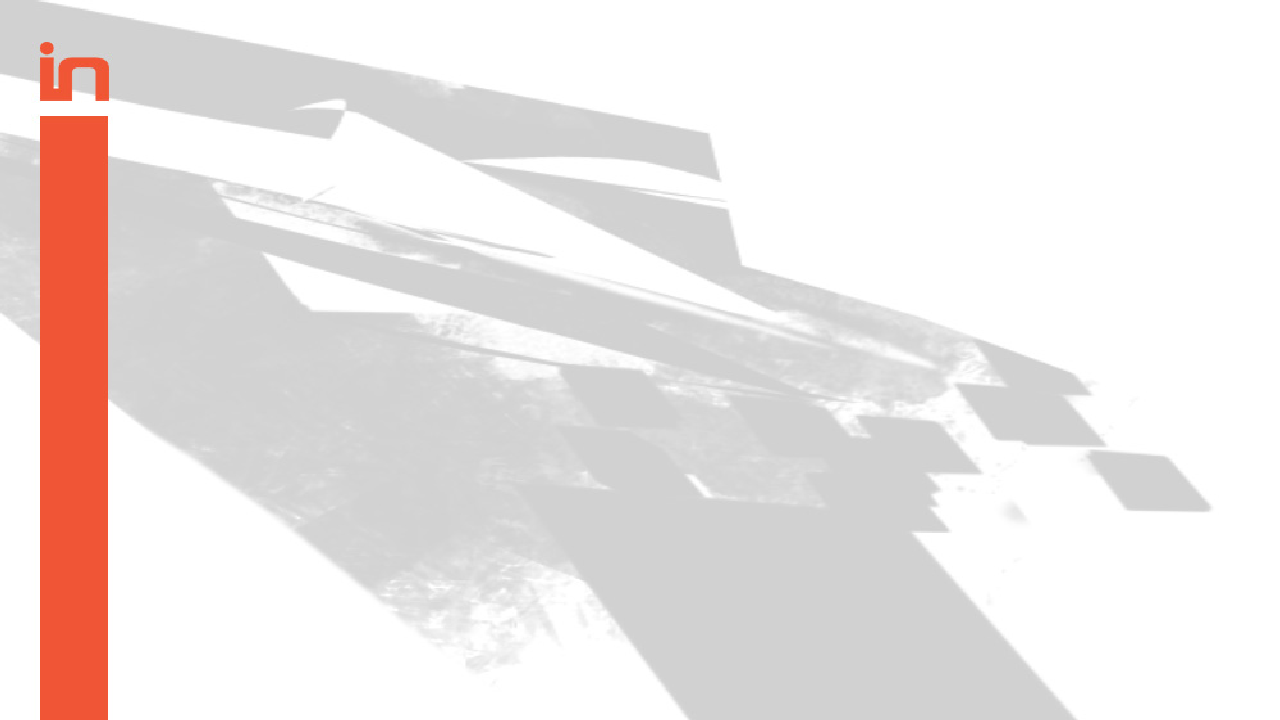
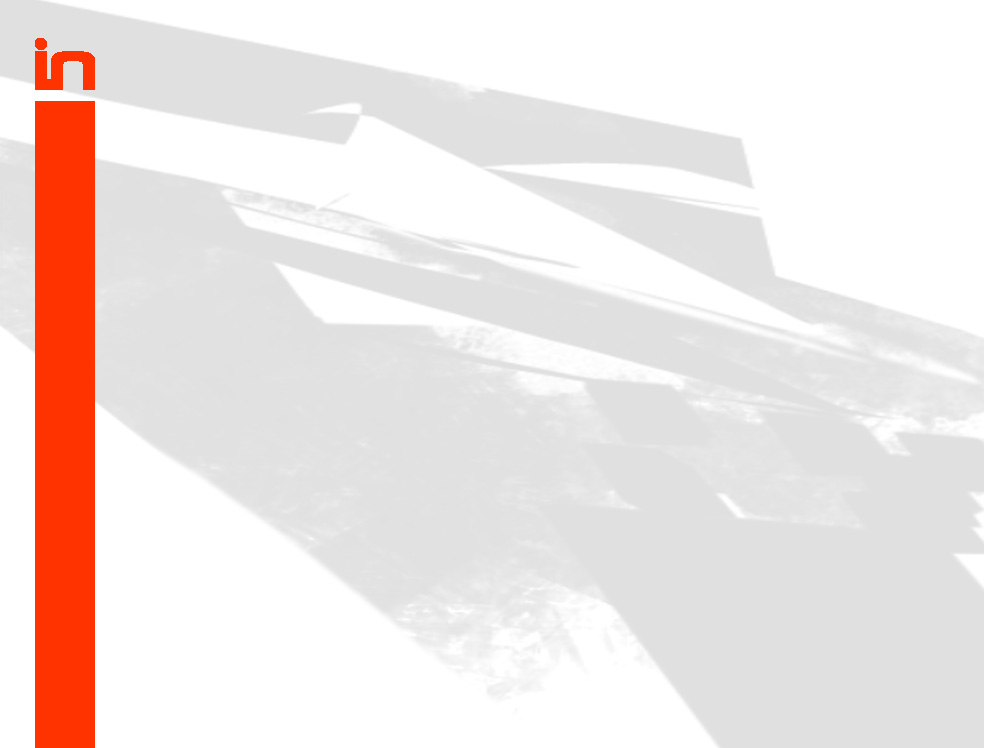
add resume slides, change background, add recommandations

diff --git a/sessions/generic_cpp/1/slides.html b/sessions/generic_cpp/1/slides.html
@@ -504,7 +504,23 @@ cin &gt;&gt; quoted(in);
 
 <section class="slide">
   <h2>C++17</h2>
-    Petit historique sur le C++17 : dates, motivations, proposals (acceptés/rejetés)
+  <h3>Préambule</h3>
+  <ul>
+    <li><em>C++1z;</em></li>
+    <li>Approuvée et finalisée courant 2017 (dernière publication en décembre);</li>
+    <li>Évolution comparée à C++11 :
+      <ul>
+        <li>Beaucoup de nouvelles fonctionnalités :
+          <ul>
+            <li>Nouvelles classes, algorithmes et conteneurs;</li>
+            <li>Nouvelles bibliothèques.</li>
+          </ul>
+        </li>
+        <li>Beaucoup de corrections et d'améliorations du standard;</li>
+        <li>Quelques suppressions d'outils dépréciés (✝ RIP auto_ptr ✝).</li>
+     </ul>
+   </li>
+  </ul>
 </section>
 
 <section class="slide">
@@ -513,7 +529,6 @@ cin &gt;&gt; quoted(in);
   <ol>
     <li><h4>Langage</h4></li>
     <li><h4>Bibliothèque</h4></li>
-    <li><h4>Bonus</h4></li>
   </ol>
 </section>
 
@@ -521,52 +536,144 @@ cin &gt;&gt; quoted(in);
   <h2>C++17</h2>
   <h3>Plan</h3>
   <ol>
-    <li><h4>Langage</h4></li>
+    <li><h4>Langage</h4>
+      <ol>
+        <li><em>constexpr-if</em>;</li>
+        <li>Variables inline;</li>
+        <li><em>Fold expressions</em>;</li>
+        <li><em>Structured binding declarations</em>;</li>
+        <li>Initialisation dans les <em>if</em> et <em>switch</em>;</li>
+        <li>Garantie <em>RVO</em>;</li>
+        <li>Attributs standards <em>[[fallthrough]]</em>, <em>[[maybe_unused]]</em> et <em>[[nodiscard]]</em>.</li>
+      </ol>
+    </li>
     <li class="faded"><h4>Bibliothèque</h4></li>
-    <li class="faded"><h4>Bonus</h4></li>
   </ol>
+</section>
+
+<section class="slide">
+  <h2>C++17 &rarr; Langage</h2>
+  <h3><em>constexpr-if</em></h3>
+  <pre><code></code></pre>
+</section>
+
+<section class="slide">
+  <h2>C++17 &rarr; Langage</h2>
+  <h3>Variables inline</h3>
+  <pre><code></code></pre>
+</section>
+
+<section class="slide">
+  <h2>C++17 &rarr; Langage</h2>
+  <h3><em>Fold expressions</em></h3>
+  <pre><code></code></pre>
+</section>
+
+<section class="slide">
+  <h2>C++17 &rarr; Langage</h2>
+  <h3><em>Structured binding declarations</em></h3>
+  <pre><code></code></pre>
+</section>
+
+<section class="slide">
+  <h2>C++17 &rarr; Langage</h2>
+  <h3>Initialisation dans les <em>if</em> et <em>switch</em></h3>
+  <pre><code></code></pre>
+</section>
+
+<section class="slide">
+  <h2>C++17 &rarr; Langage</h2>
+  <h3>Garantie <em>RVO</em></h3>
+  <h4>RVO :</h4>
+  <p>
+    <em>Return Value Optimization.</em>
+  </p>
+  <pre><code></code></pre>
+</section>
+
+<section class="slide">
+  <h2>C++17 &rarr; Langage</h2>
+  <h3>Attributs standards <em>[[fallthrough]]</em>, <em>[[maybe_unused]]</em> et <em>[[nodiscard]]</em></h3>
+  <pre><code></code></pre>
 </section>
 
 <section class="slide">
   <h2>C++17</h2>
   <h3>Plan</h3>
   <ol>
-    <li class="faded"><h4>Langage</h4></li>
+    <li class="faded"><h4>Langage</h4>
     <li><h4>Bibliothèque</h4></li>
-    <li class="faded"><h4>Bonus</h4></li>
+      <ol>
+        <li><em>string_view</em>, <em>optional</em>, <em>variant</em>, <em>any</em>;</li>
+        <li>Bibliothèque de système de fichiers;</li>
+        <li>Algorithmes parallèles;</li>
+        <li>Nouveaux user defined literals (<em>string_view</em>).</li>
+      </ol>
+    </li>
   </ol>
 </section>
 
 <section class="slide">
-  <h2>C++17</h2>
-  <h3>Plan</h3>
-  <ol>
-    <li class="faded"><h4>Langage</h4></li>
-    <li class="faded"><h4>Bibliothèque</h4></li>
-    <li><h4>Bonus</h4></li>
-  </ol>
+  <h2>C++17 &rarr; Bibliothèque</h2>
+  <h3><em>string_view</em>, <em>optional</em>, <em>variant</em>, <em>any</em></h3>
+  <pre><code></code></pre>
 </section>
 
-<!--
-    <li><code>string_view</code>, <code>optional</code>, <code>variant</code>, <code>any</code></li>
-    <li>Bibliothèque de système de fichiers</li>
-    <li>Algorithmes parallèles</li>
-    <li><code>constexpr-if</code></li>
-    <li>Variables inline</li>
-    <li><em>Fold expressions</em></li>
-    <li>Structured binding declarations</li>
-    <li>Initializers in <em>if</em> and <em>switch</em> statements</li>
-    <li>Garantie <em>RVO</em></li>
-    <li>Nouveaux user defined literals (<code>string_view</code>)</li>
-    <li>Attributs standards <code>[[fallthrough]]</code>, <code>[[maybe_unused]]</code> et <code>[[nodiscard]]</code></li>
--->
+<section class="slide">
+  <h2>C++17 &rarr; Bibliothèque</h2>
+  <h3>Bibliothèque de système de fichiers</h3>
+</section>
+
+<section class="slide">
+  <h2>C++17 &rarr; Bibliothèque</h2>
+  <h3>Algorithmes parallèles</h3>
+</section>
+
+<section class="slide">
+  <h2>C++17 &rarr; Bibliothèque</h2>
+  <h3>Nouveaux user defined literals (<em>string_view</em>)</h3>
+  <pre><code></code></pre>
+</section>
 
 <section class="slide title">
   <h1>Résumé</h1>
 </section>
 
 <section class="slide">
-  <h2>Résumé</h2>
+  <h2>Résumé &rarr; C++14</h2>
+  <ul>
+    <li>Simplification de l'écriture de template avec la <strong>déduction des
+        types de retour</strong>;</li>
+    <li><strong>Lambdas</strong> plus puissantes : <strong>lambdas
+        génériques</strong> et <strong>captures étendues</strong>;</li>
+    <li>Flexibilité au <em>compile time</em> avec les fonctions
+      <strong>constexpr</strong> étendues;</li>
+    <li>Quelques outils en plus dans la bibliothèque.</li>
+  </ul>
+</section>
+
+<section class="slide">
+  <h2>Résumé &rarr; C++17</h2>
+  <ul>
+    <li>Fonctions <strong>constexpr</strong> toujours plus puissantes;</li>
+    <li>Ecrire du code plus <em>safe</em>, plus court et plus générique sans
+      perte de performances;</li>
+    <li>Nouveaux outils pour faire de la <strong>sémantique de valeur</strong>
+      plus simplement;</li>
+    <li>Plus de bibliothèques standards pour <strong>moins de bibliothèques
+        tierces</strong>.</li>
+  </ul>
+</section>
+
+<section class="slide">
+  <h2>Recommandations</h1>
+  <h4>Effective Modern C++</h4>
+  <p><cite>42 Specific Ways to Improve Your Use of C++11 and C++14</cite>.</p>
+  <p>Publié par O'Reilly, écrit par Scott Meyers</p>
+  <div style="display: flex; justify-content: space-evenly; margin: 0 auto; align-items: center; width: 66%;">
+    <img src="../../media/effective_modern_cpp.jpg" alt="Effective Modern C++" style="margin: 0 2rem;">
+    <img src="../../media/scott_meyers.jpeg" alt="Scott Meyers" style="margin: 0 2rem;">
+  </div>
 </section>
 
 <section class="slide title">
@@ -576,11 +683,12 @@ cin &gt;&gt; quoted(in);
 <section class="slide">
   <h2>TP application : C++14 et C++17</h2>
   <h3>Transformation d'un programme C++11 en 14/17</h3>
+  <p>Disponible dans <strong>sessions/generic_cpp/1/practical</strong></p>
+  <ul>
+    <li>Ouvrir le <em>CMakeLists.txt</em> à la racine du dépôt avec votre IDE favori.</li>
+    <li>Les projets à implémenter sont ceux commençant par <strong>genericcpp_sess1</strong>.</li>
+  </ul>
 </section>
-
-</section>
-
-<!-- Recommandations : Effective modern C++ -->
 
   <!--
   #########################################################################################################
